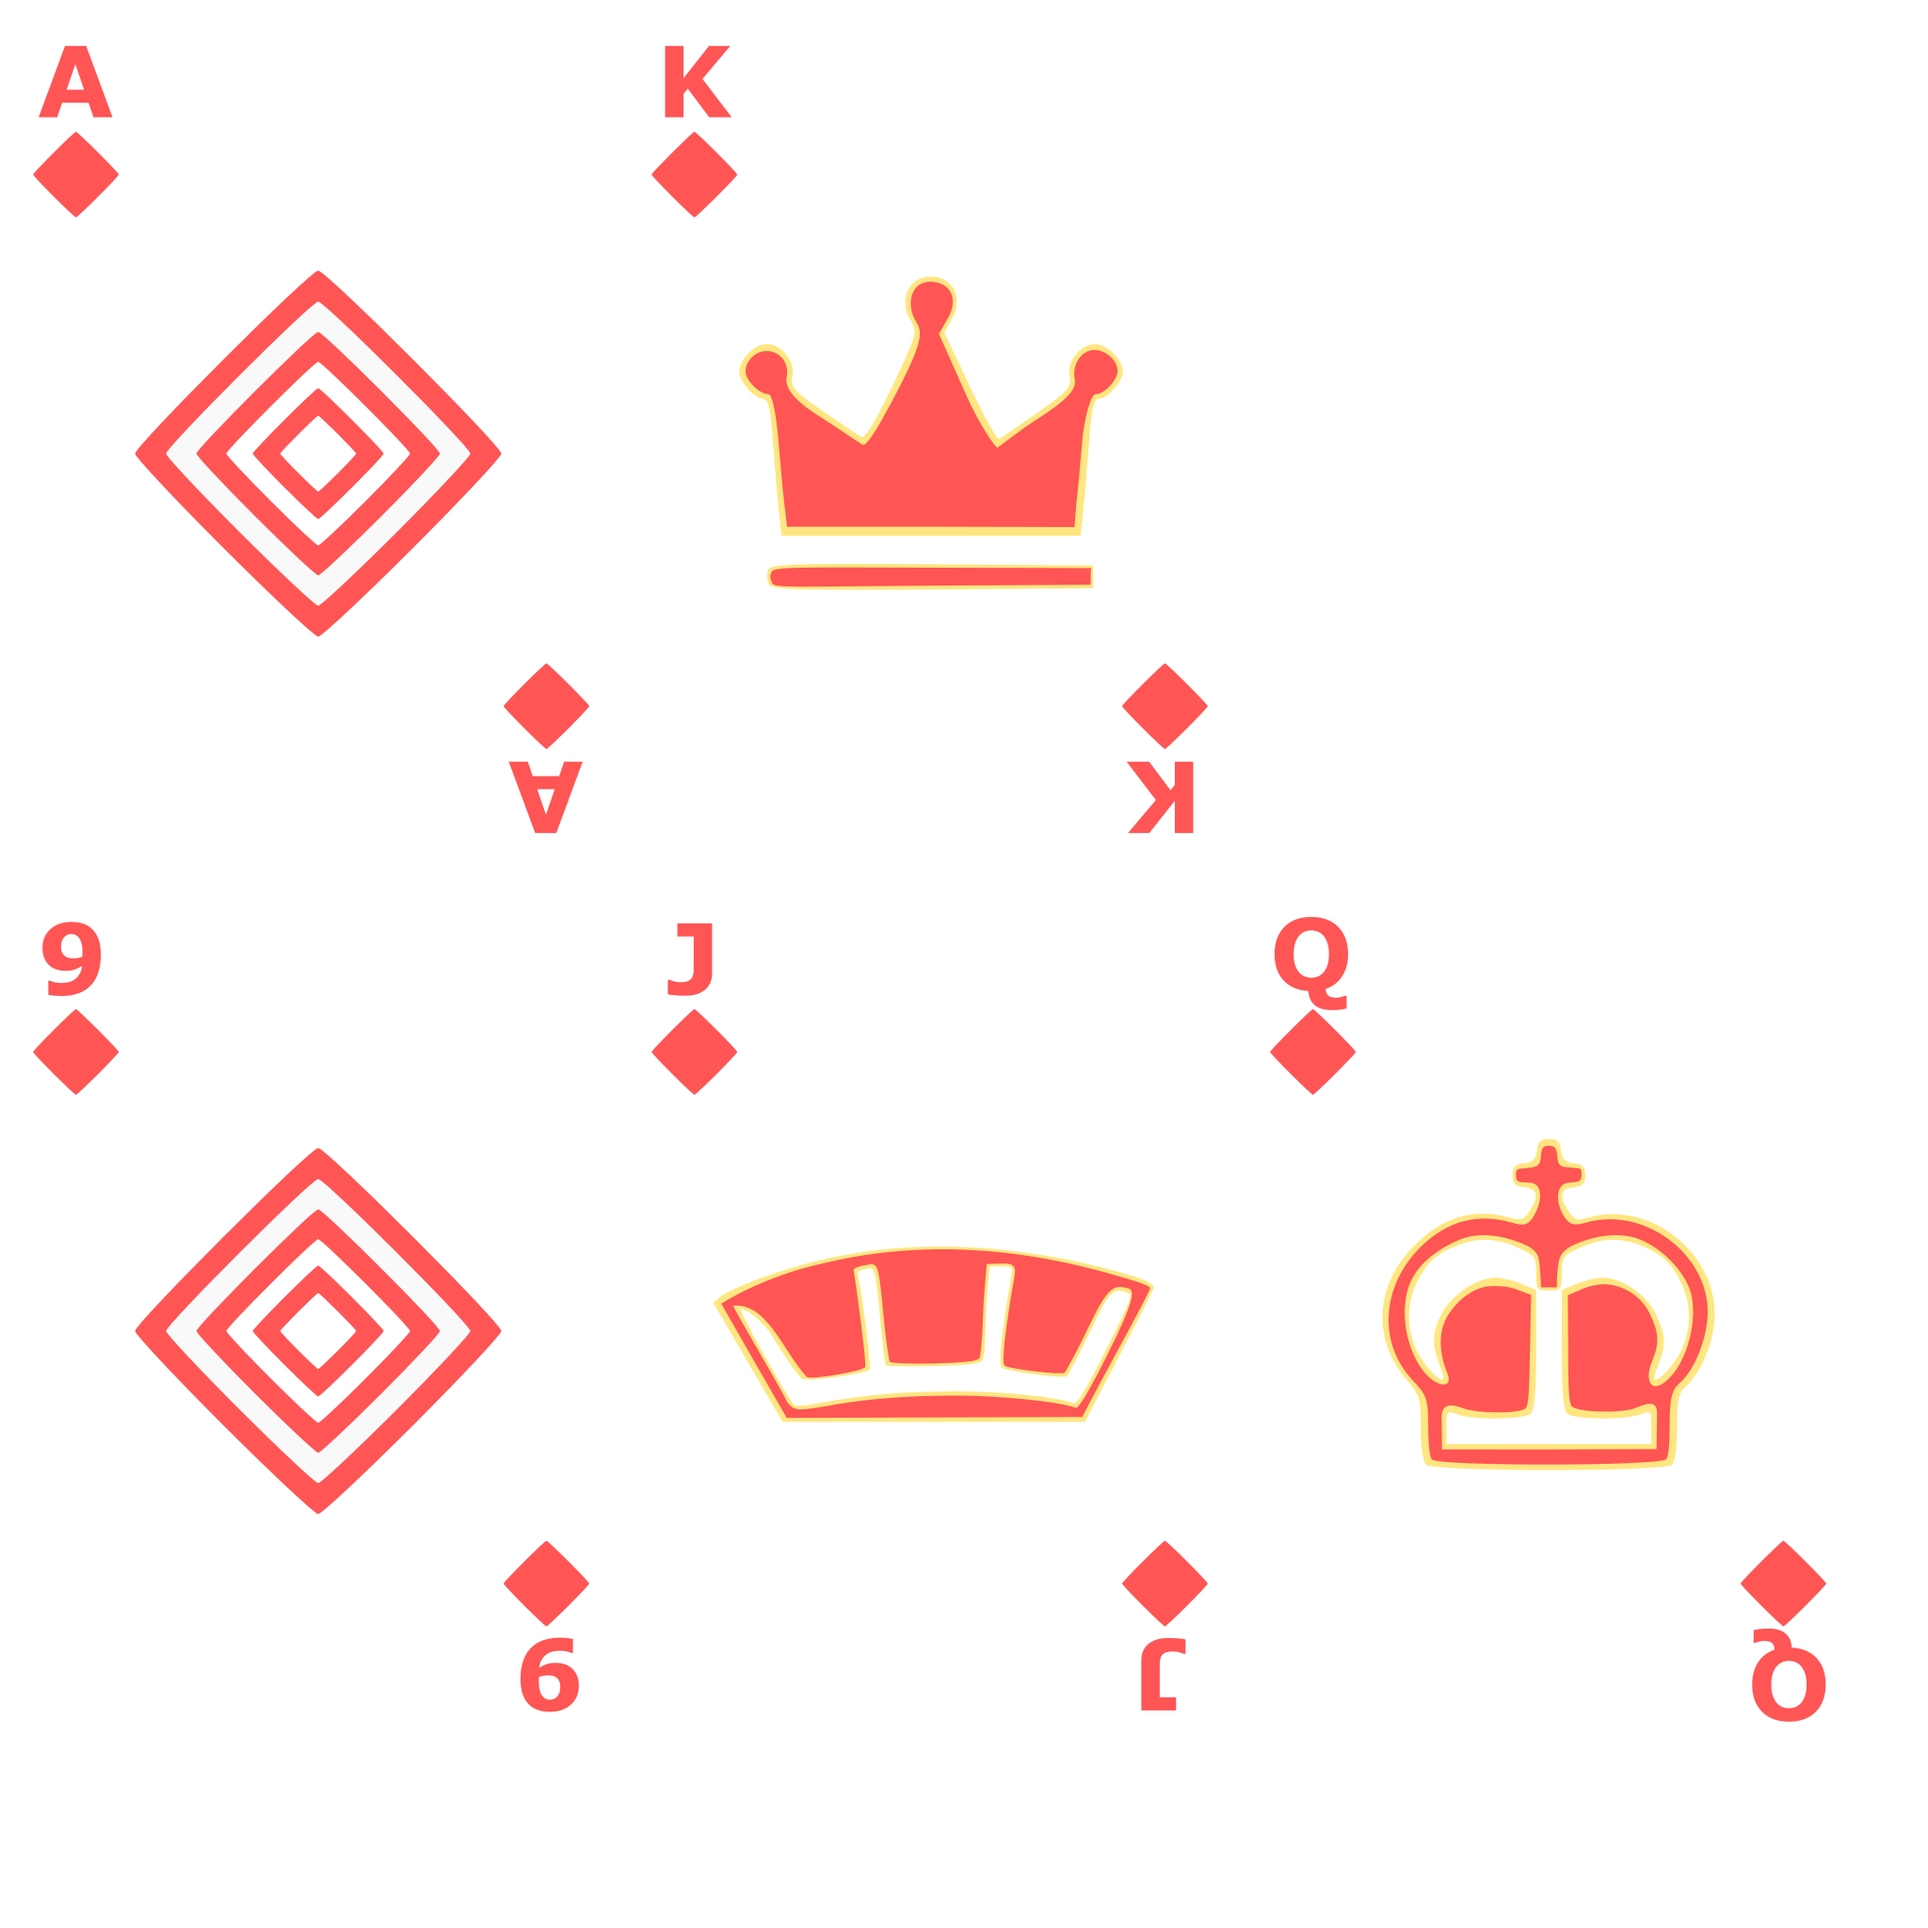
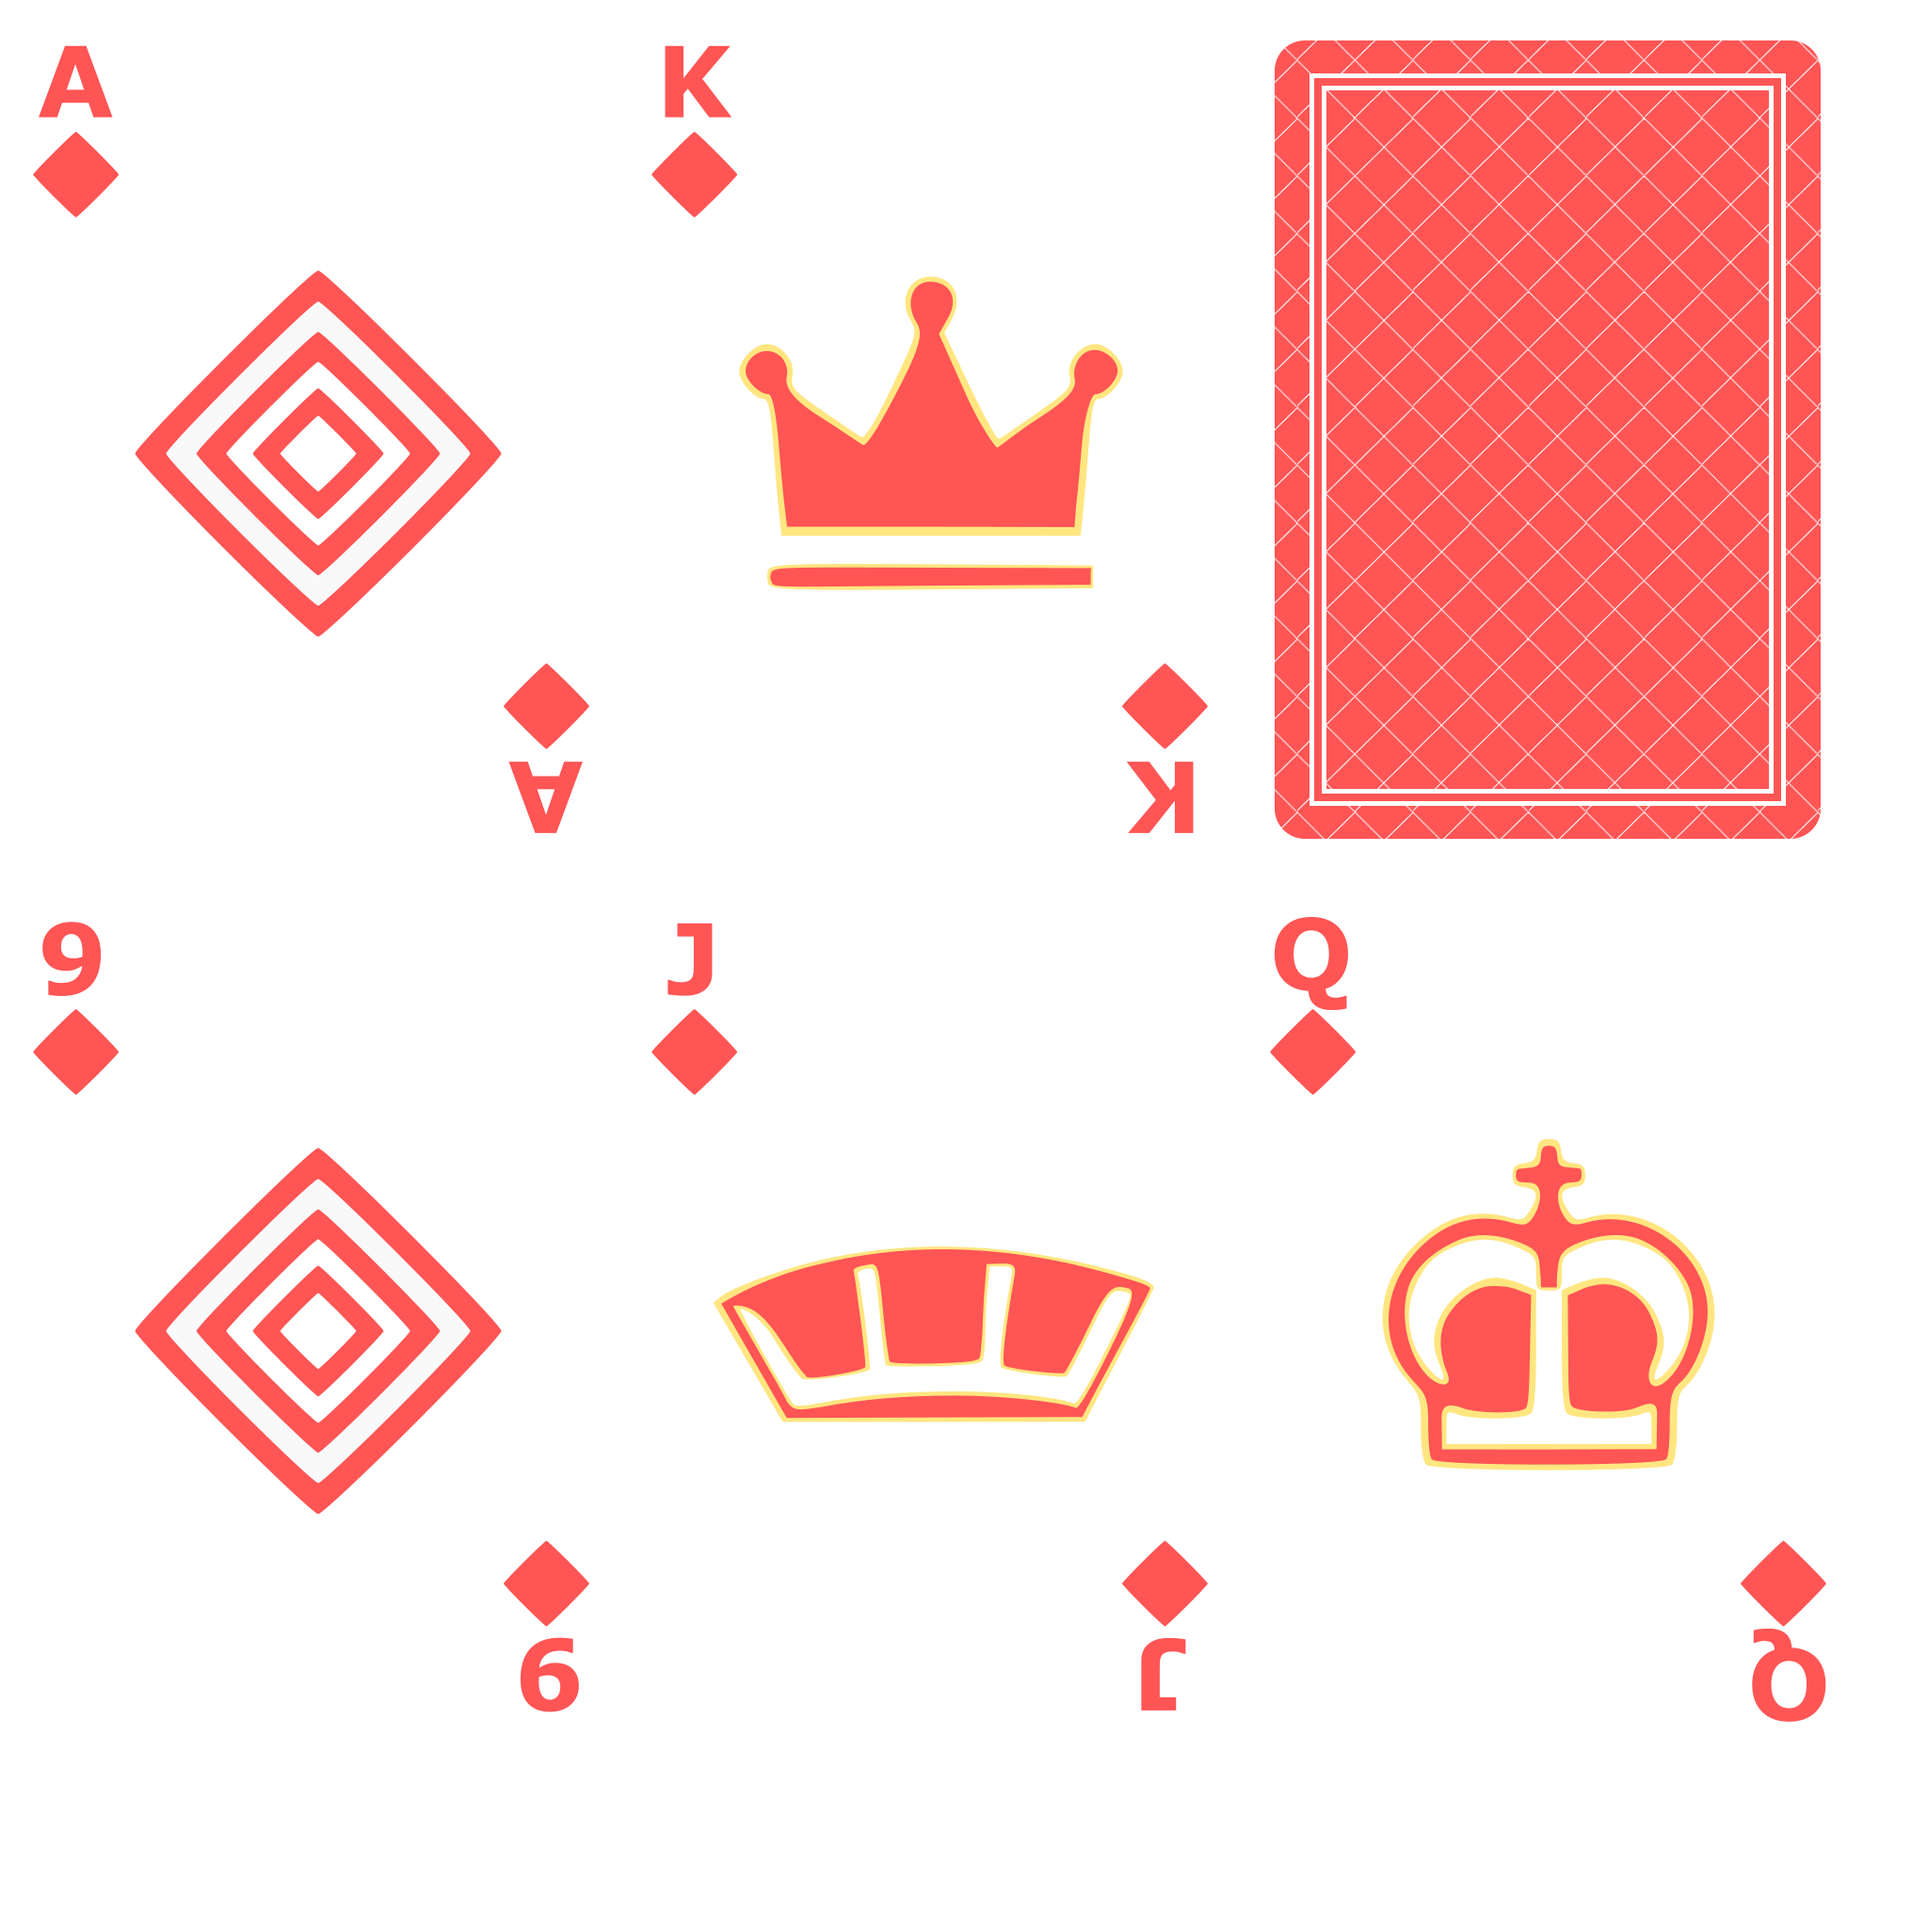
Add flip animation

Changed region(s): [[0.6562, 0.0, 0.9688, 0.4375]]

diff --git a/core/src/com/jaeheonshim/ersgame/scene/CardActor.java b/core/src/com/jaeheonshim/ersgame/scene/CardActor.java
@@ -4,7 +4,11 @@ import com.badlogic.gdx.graphics.Color;
 import com.badlogic.gdx.graphics.g2d.Batch;
 import com.badlogic.gdx.graphics.g2d.TextureAtlas;
 import com.badlogic.gdx.graphics.g2d.TextureRegion;
+import com.badlogic.gdx.scenes.scene2d.Action;
 import com.badlogic.gdx.scenes.scene2d.Actor;
+import com.badlogic.gdx.scenes.scene2d.InputEvent;
+import com.badlogic.gdx.scenes.scene2d.actions.SequenceAction;
+import com.badlogic.gdx.scenes.scene2d.utils.ClickListener;
 import com.jaeheonshim.ersgame.game.CardType;
 import com.jaeheonshim.ersgame.ERSGame;
 
@@ -14,6 +18,7 @@ public class CardActor extends Actor {
     private TextureRegion shadowRegion;
 
     private boolean shadow = true;
+    private boolean flipped = false;
 
     private CardType type;
 
@@ -39,7 +44,26 @@ public class CardActor extends Actor {
         }
 
         TextureRegion region = atlas.findRegion(type.filename);
+
+        if(flipped) {
+            region = atlas.findRegion("back");
+        }
+
         batch.draw(region, getX(), getY(), getOriginX(), getOriginY(), getWidth(), getHeight(), getScaleX(), getScaleY(), getRotation());
+    }
+
+    public void flip() {
+        addAction(
+                new SequenceAction(
+                        ActionUtil.flipOut(getX(), getWidth(), 0.15f),
+                        new Action() {
+                            @Override
+                            public boolean act(float delta) {
+                                flipped = !flipped;
+                                return true;
+                            }
+                        },
+                        ActionUtil.flipIn(getX(), getWidth(), 0.15f)));
     }
 
     public CardType getType() {

diff --git a/core/src/com/jaeheonshim/ersgame/scene/ActionUtil.java b/core/src/com/jaeheonshim/ersgame/scene/ActionUtil.java
@@ -1,0 +1,47 @@
+package com.jaeheonshim.ersgame.scene;
+
+import com.badlogic.gdx.scenes.scene2d.Action;
+
+public class ActionUtil {
+    public static Action flipIn(final float x, final float width, final float duration) {
+        return new Action() {
+            float done = 0;
+
+            @Override
+            public boolean act(float delta) {
+                done += delta;
+                if (done >= duration) {
+                    actor.setX(x);
+                    actor.setWidth(width);
+                    return true;
+                }
+                float tmpWidth = width * (done / duration);
+                actor.setX(x + ((width / 2) - (tmpWidth / 2)));
+                actor.setWidth(tmpWidth);
+                return false;
+            }
+        };
+    }
+
+    public static Action flipOut(final float x, final float width, final float duration) {
+        return new Action() {
+            float left = duration;
+
+            @Override
+            public boolean act(float delta) {
+                left -= delta;
+                if (left <= 0) {
+                    actor.setX(x + (width / 2));
+                    actor.setWidth(0);
+                    return true;
+                }
+                float tmpWidth = width * (left / duration);
+                actor.setX(x + ((width / 2) - (tmpWidth / 2)));
+                actor.setWidth(tmpWidth);
+                return false;
+            }
+        };
+    }
+
+
+}

diff --git a/core/src/com/jaeheonshim/ersgame/scene/PileDisplayActor.java b/core/src/com/jaeheonshim/ersgame/scene/PileDisplayActor.java
@@ -32,6 +32,7 @@ public class PileDisplayActor extends Stack {
 
     @Override
     public void act(float delta) {
+        super.act(delta);
         for(int i = 0; i < cardActors.length; i++) {
             int pileSize = gameState.getPile().size();
             if(pileSize < i + 1) break;
